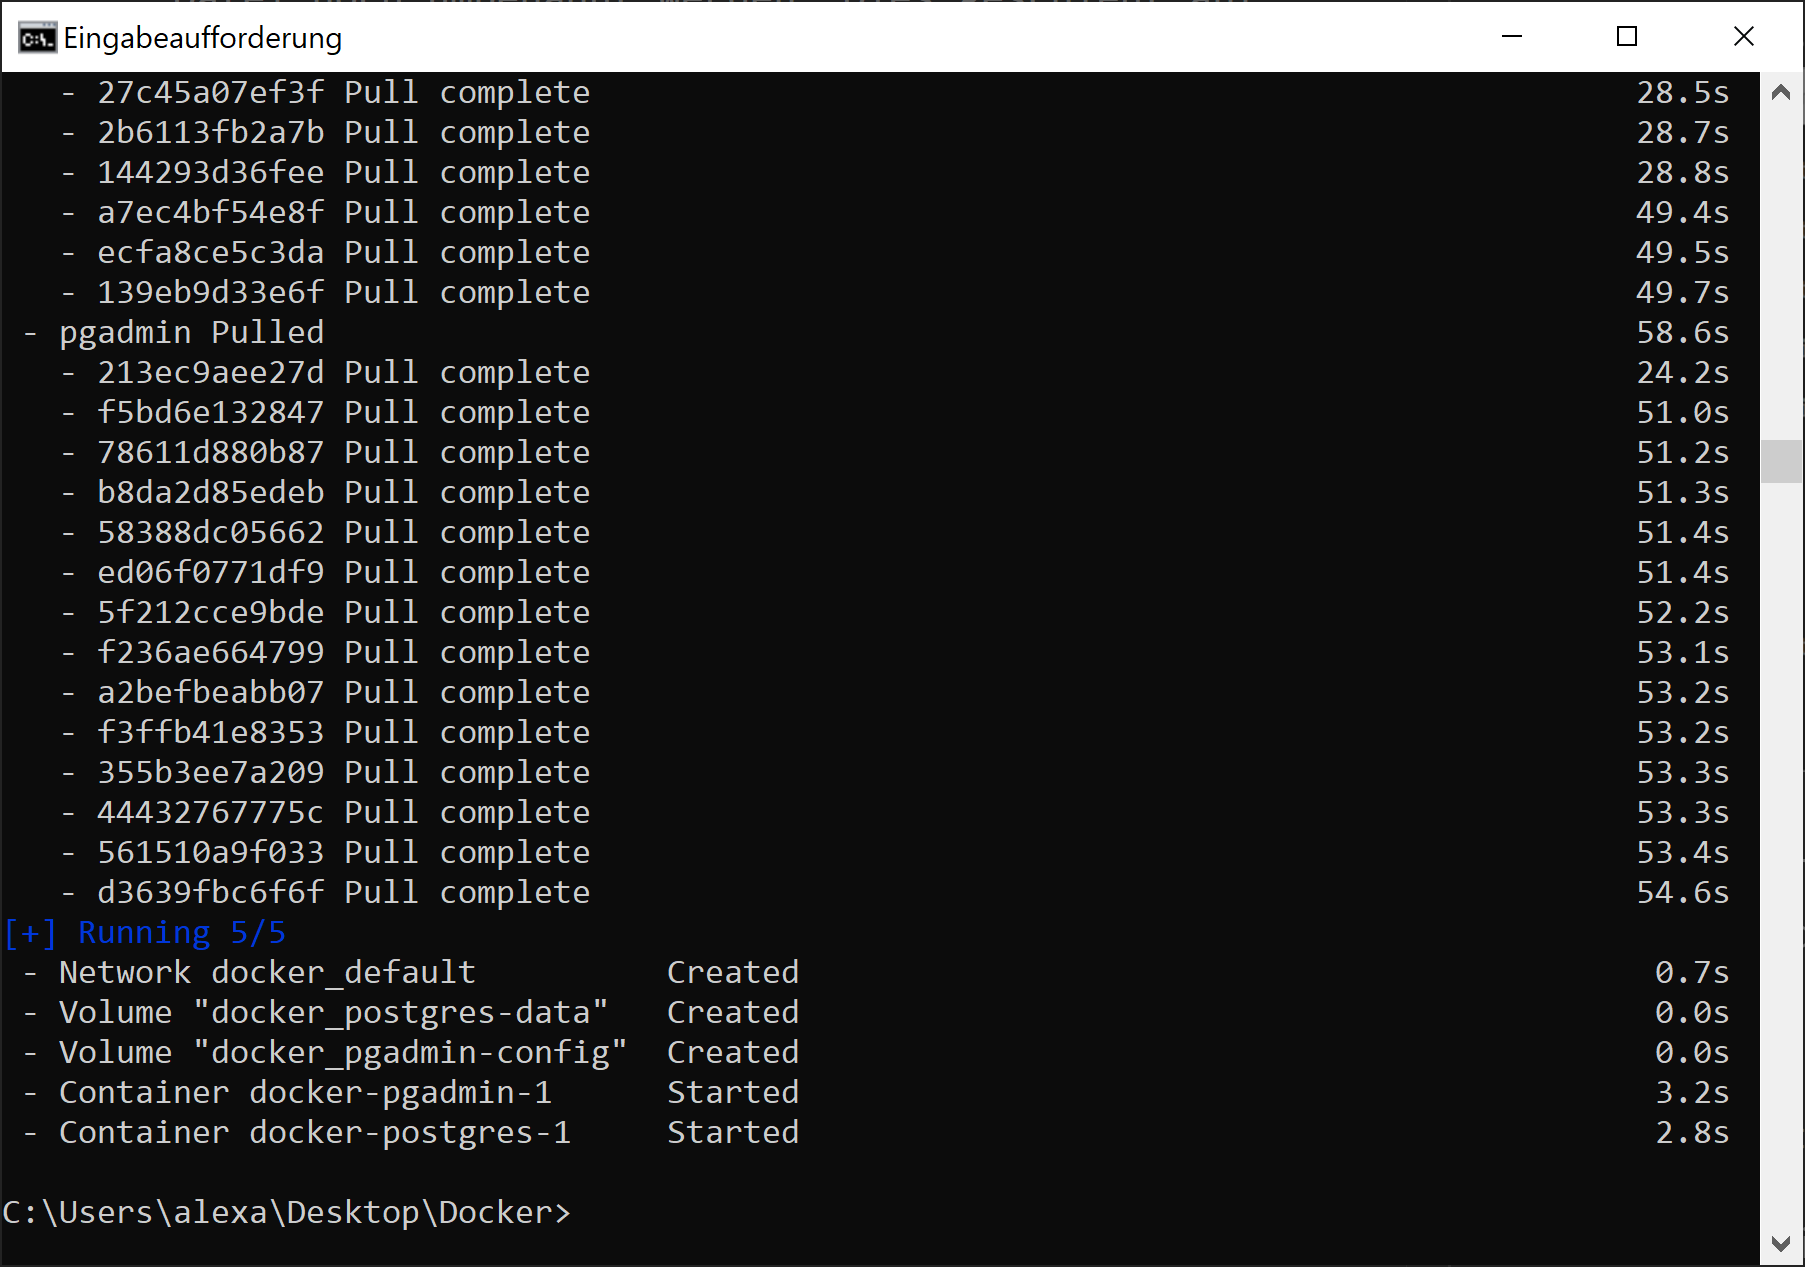
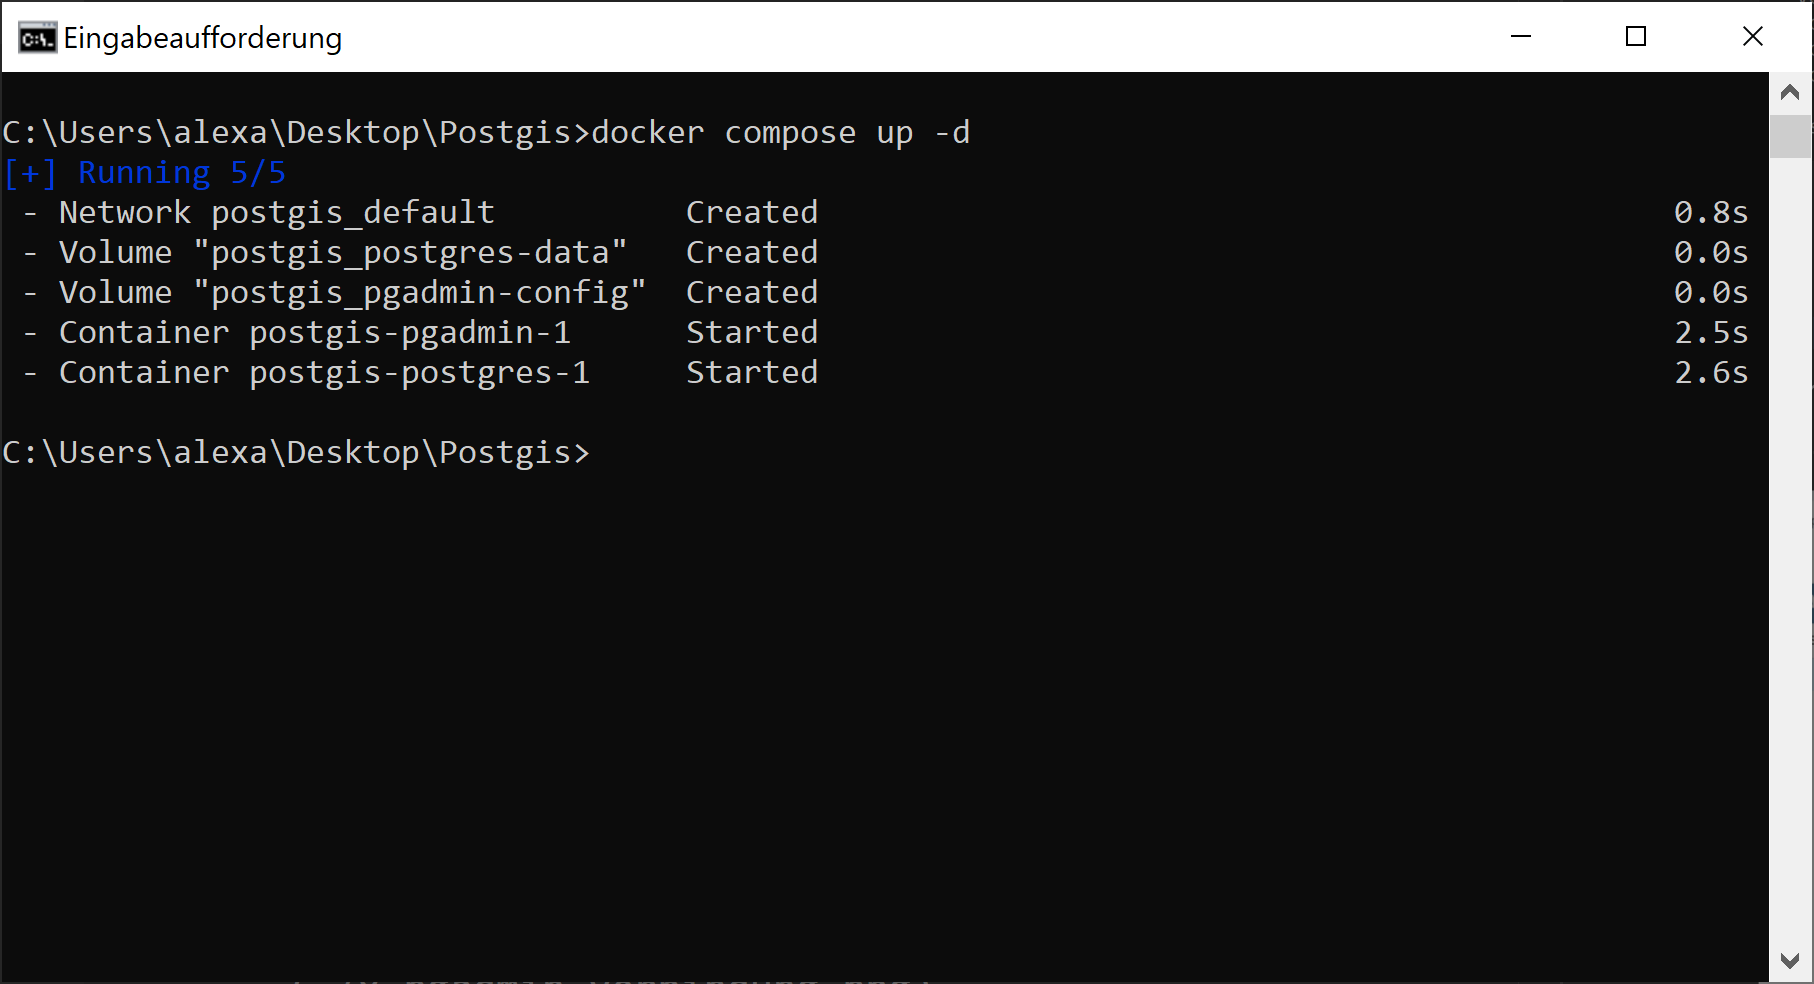
Working

diff --git a/IuK/DockerInstallation/README.md b/IuK/DockerInstallation/README.md
@@ -7,20 +7,20 @@
 
 3. Starten Sie Docker Desktop durch Doppelklick auf die Verknüpfung auf dem Desktop. Eventuell werden Sie aufgefordert, Komponten nachzuinstallieren. Folgen Sie diesen Anweisungen und starten dann den Rechner neu.
 
-4. Erstellen Sie ein Verzeichnis *Docker* auf Ihrem Desktop.
+4. Erstellen Sie ein Verzeichnis *Postgis* auf Ihrem Desktop.
 
 5. Laden Sie die Datei [docker-compose.yaml](https://raw.githubusercontent.com/LosWochos76/wbh_addons/main/IuK/DockerInstallation/docker-compose.yml) herunter und speichern Sie die Datei in dem zuvor erstellten Verzeichnis. Im Web-Browser können Sie dazu mit der rechten Maustaste auf den Inhalt klicken und "Speichern unter..." auswählen.
 
 6. Öffnen Sie die Kommandozeile. Unter Windows 10/11 klicken Sie dazu den Start-Button und suchen nach "cmd": <br> ![cmd](./3-cmd.png) <br> Klicken Sie das  Programm "Eingabeaufforderung" an. Es öffnet sich ein neues Fenster mit schwarzem Hintergrund und einem weiß blinkenden Cursor. 
 
-7. Wechseln Sie in das zuvor erstellte Verzeichnis. Dazu geben Sie den Befehl ```cd Desktop\Docker``` ein und bestätigen mit der Enter-Taste. Anschließend können Sie sich den Inhalt des aktuellen Verzeichnisses mit dem Befehl ```dir``` anzeigen. Das Ergebnis sollte wie folgt aussehen: <br> ![Eingabeaufforderung](./2-eingabeaufforderung.png) 
+7. Wechseln Sie in das zuvor erstellte Verzeichnis. Dazu geben Sie den Befehl ```cd Desktop\Postgis``` ein und bestätigen mit der Enter-Taste. Anschließend können Sie sich den Inhalt des aktuellen Verzeichnisses mit dem Befehl ```dir``` anzeigen. Das Ergebnis sollte wie folgt aussehen: <br> ![Eingabeaufforderung](./2-eingabeaufforderung.png) 
 
 8. Mitunter hat die Datei *docker-compose.yml* noch die Dateiendung ".txt". Dann müsste die Datei noch umbenannt werden. Dies geschieht auf der Kommandozeile mit dem Befehl:<br>
 ```ren docker-compose.yml.txt docker-compose.yml```.
 
 9. Prüfen Sie, ob Docker Desktop gestartet ist. Der Kommandozeilenbefehl ```docker ps```sollte eine leere Liste ausgeben: <br> ![leere Liste](./5-docker-ps.png)
 
-10. Starten Sie nun PostGIS und pgAdmin mit dem Befehl ```docker compose up -d```. Daraufhin werden zuerst einige Container heruntergeladen und anschließend gestartet: <br> ![Container gestartet](./6-container-gestartet.png)
+10. Starten Sie nun PostGIS und pgAdmin mit dem Befehl ```docker compose up -d```. Nur beim ersten Mal werden zuerst einige Container heruntergeladen. Anschließend werden die Anwendungen gestartet: <br> ![Container gestartet](./6-container-gestartet.png)
 
 11. In Ihrem Web-Broswer können Sie sich nun unter http://localhost:8080 in pgAdmin einloggen. Der Benutzername ist "admin@wb-fernstudium.de". Das Passwort lautet "secret". Das Ergebnis sollte wie folgt aussehen: <br> ![pgAdmin](./7-pgadmin.png)
 
